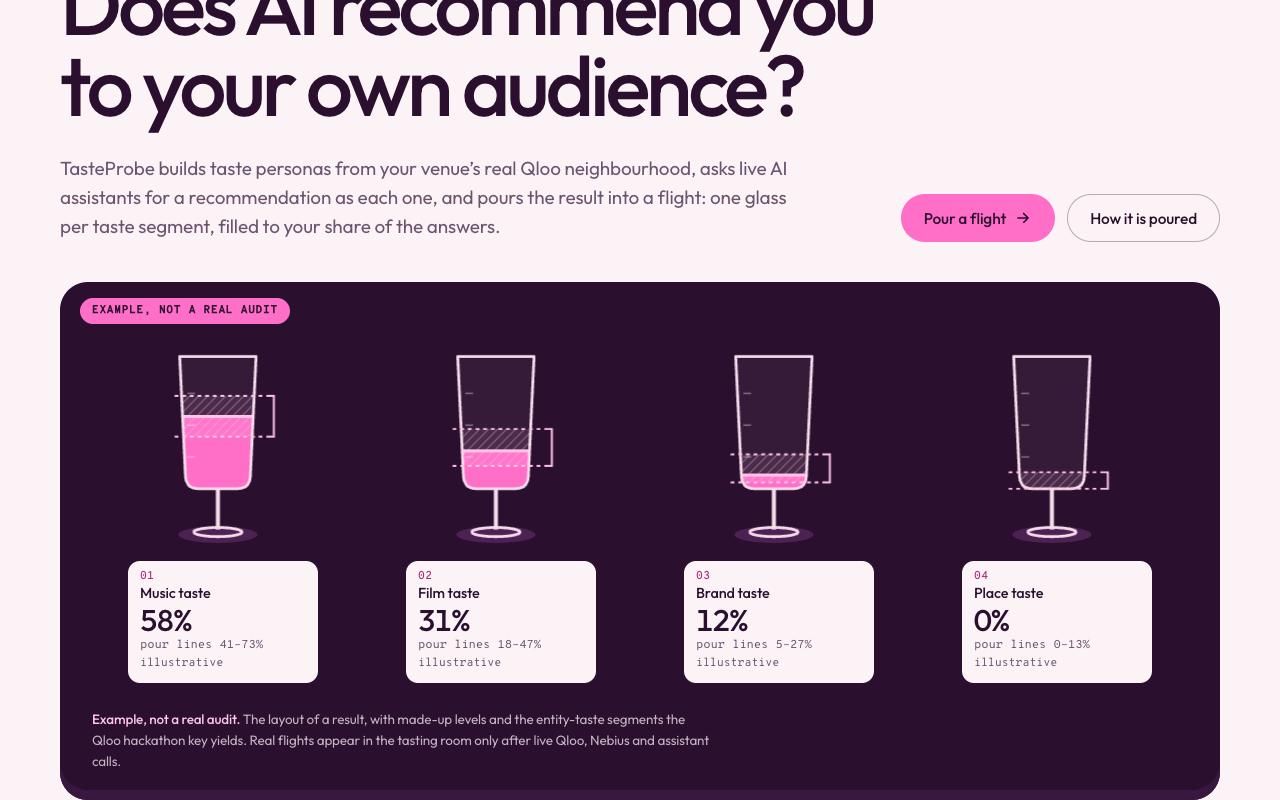
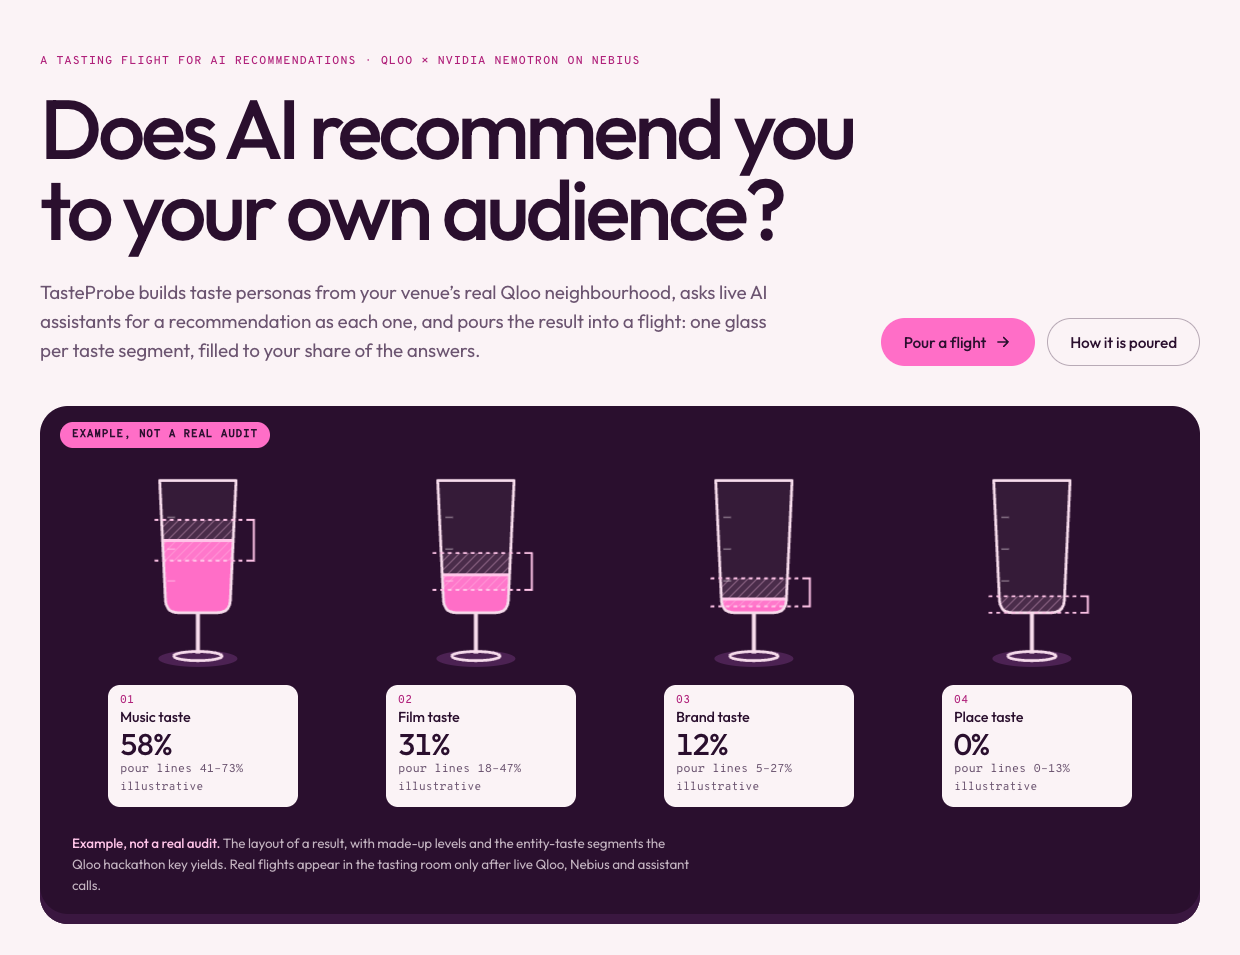
docs(readme): lead with the urn:entity path the hackathon key gets; try-it block; full-headline hero shot
The persona step, the Qloo section, the architecture diagram and the form describe the urn:entity
segments first and urn:tag as the production-key path. A 'Try it in 2 minutes' block sits above the
architecture. The landing E2E shot is clipped to the whole hero (headline and board) on the standalone
build, and the README image is regenerated from it. Tests check the order and the block.

Changed region(s): [[0.0306, 0.0, 0.9806, 1.0], [0.8581, 0.25, 0.95, 0.2812]]

diff --git a/e2e/tests/landing.spec.ts b/e2e/tests/landing.spec.ts
@@ -28,8 +28,18 @@ test.describe("landing: the tasting sheet", () => {
     await expect(hero.getByRole("img", { name: /^Music taste: 58% of answers recommend the venue, 95% interval/ })).toBeVisible();
     // Every surface that shows made-up levels carries the stamp: hero, glass anatomy, re-pour.
     await expect(page.locator(".board-stamp", { hasText: EXAMPLE })).toHaveCount(3);
-    await hero.scrollIntoViewIfNeeded();
-    await page.screenshot({ path: test.info().outputPath("02-example-flight.png"), animations: "disabled" });
+    // The README hero image (docs/screenshots/landing-example-flight.png) is this shot: it must hold
+    // the whole headline and the whole board, not start mid-headline.
+    const section = await page.locator("section.hero").boundingBox();
+    const headline = await page.getByRole("heading", { level: 1 }).boundingBox();
+    const board = await hero.boundingBox();
+    expect(section && headline && board).toBeTruthy();
+    // A side margin (clamped to the page) so the headline does not touch the edge.
+    const pad = Math.min(40, section!.x);
+    const clip = { x: section!.x - pad, y: section!.y, width: section!.width + 2 * pad, height: board!.y + board!.height + 32 - section!.y };
+    expect(headline!.y).toBeGreaterThanOrEqual(clip.y);
+    expect(board!.y + board!.height).toBeLessThanOrEqual(section!.y + section!.height + 1);
+    await page.screenshot({ path: test.info().outputPath("02-example-flight.png"), clip, fullPage: true, animations: "disabled" });
   });
 
   test("wine-list steps: seven numbered courses with their sponsor tags", async ({ page }) => {

diff --git a/README.md b/README.md
@@ -6,20 +6,27 @@
 >
 > Hosted demo: _not deployed yet_ (Qloo requires an externally hosted demo). The production `Dockerfile` and `railway.json` are ready, and the paid routes sit behind a spend guard (run token, persona and agent caps, quotas): one-time setup, then `railway up --detach` ([docs/hosting.md](docs/hosting.md)). Demo video: _not recorded yet; needs keys_ (script in [docs/demo.md](docs/demo.md)).
 
+## Try it in 2 minutes
+
+1. **Hosted demo:** _not deployed yet_ (it needs the Qloo and Nebius keys; the URL goes here once it is live).
+2. **The featured audit:** the hosted demo opens on one real audit pinned with `TASTEPROBE_FEATURED_AUDIT_ID`, so you see a real flight without spending credits. None exists until the first live run.
+3. **The printable report:** any stored audit prints at `/audits/<id>/report`.
+4. **No keys needed:** after `npm ci`, `npm test` runs the unit suite; `npm run build && npm run e2e:stack && npm run test:e2e` runs the browser suite in Chrome ([TESTING.md](TESTING.md)).
+
 | The landing (every glass above the tasting room is stamped as an example) | The tasting room without keys |
 |---|---|
 | ![Landing hero: a flight of four glasses stamped "Example, not a real audit"](docs/screenshots/landing-example-flight.png) | ![Tasting room: Setup required names QLOO_API_KEY, NEBIUS_API_KEY and an assistant key; the flight is empty](docs/screenshots/setup-required.png) |
 
-Both screenshots are from the Playwright E2E run in Chrome at 1280 px (`e2e/tests/landing.spec.ts`, `e2e/tests/room.spec.ts`), with no keys set.
+Both screenshots are from the Playwright E2E run in Chrome at 1280 px (`e2e/tests/landing.spec.ts` on the standalone build, cropped to the hero; `e2e/tests/room.spec.ts`), with no keys set.
 
 ## Architecture
 
 ```mermaid
 flowchart LR
   I[Business + category + city] --> S[Qloo /search<br/>place in that city only]
-  S --> T[Qloo /v2/insights<br/>urn:tag, or urn:entity per type on a 403]
+  S --> T[Qloo /v2/insights<br/>urn:entity per type on the hackathon key<br/>urn:tag with a production key]
   S --> X[Qloo /v2/insights<br/>artist · brand · movie · book · demographics]
-  T --> P[Persona builder<br/>anchor tag + 2 by affinity<br/>>= 8 personas per segment]
+  T --> P[Persona builder<br/>anchor entity or tag + 2 by affinity<br/>>= 8 personas per segment]
   X --> P
   P --> A[Assistants under test<br/>OpenAI + any OpenAI-compatible]
   A --> N[Nemotron on Nebius<br/>entity extraction]
@@ -118,7 +125,7 @@ Without keys, `run_audit` and `run_fix` return a tool error, `Setup required: QL
 ## How the numbers are made
 
 1. **Venue.** Qloo `/search` must return a place whose address or geocode names the requested city. If none does, the audit stops and lists what Qloo found elsewhere. That place must also match the venue's name: if the in-city listings are all other venues, the audit stops and lists them. It never audits a namesake in another city or a different venue in the same one.
-2. **Personas.** Qloo `/v2/insights` (`filter.type=urn:tag`, `signal.interests.entities`, `signal.location.query`) returns up to 50 taste tags with affinity, and tags are grouped into segments by subtype. If the city returns fewer than 6 tags, the venue's global neighbourhood (the same call without `signal.location.query`) is added; every tag keeps its scope (`city` or `global`) and the audit records `tagScope`, which the dashboard and both reports show as "N of M tags come from Qloo's global neighbourhood". **The hackathon host may refuse `urn:tag`:** the Qloo Agentic Hackathon Developer Guide lists only `urn:entity:*` types as supported and says other types answer 403. On a 403 for `urn:tag`, the personas are built from `urn:entity` affinities instead: one `/v2/insights` call per type (`artist`, `brand`, `movie`, `book`, `tv_show`, `podcast`, and `place` with the venue itself removed), all city-scoped on the venue, and each type becomes one taste segment ("Music taste", "Film taste", ...). Which path ran is stored on the audit as `personaSource` (`urn:tag` or `urn:entity`) and shown in the dashboard, the printable report and the CLI report. `npm run audit:live` checks it before spending anything: its preflight makes one 1-tag `urn:tag` call on the resolved place and prints whether the key gets `urn:tag`. Either way, **every segment gets at least 8 personas**: N personas allow at most floor(N/8) segments (max 6). Each persona anchors on one tag or entity, taken in affinity order, and adds two from other segments, sampled by affinity with seed 7. With `urn:tag` personas, a persona also names one or two artists, brands, films or books with affinity to the venue where Qloo returns them.
+2. **Personas.** **On the hackathon key (the path judges will see):** the Qloo Agentic Hackathon Developer Guide lists only `urn:entity:*` types as supported and says other types answer 403, so the personas come from `urn:entity` affinities: one `/v2/insights` call per type (`filter.type=urn:entity:artist`, `brand`, `movie`, `book`, `tv_show`, `podcast`, and `place` with the venue itself removed; `signal.interests.entities` and `signal.location.query`), all city-scoped on the venue, and each type becomes one taste segment ("Music taste", "Film taste", ...). **With a production key** that serves `urn:tag`, `/v2/insights` (`filter.type=urn:tag`) returns up to 50 taste tags with affinity, grouped into segments by subtype; if the city returns fewer than 6 tags, the venue's global neighbourhood (the same call without `signal.location.query`) is added, every tag keeps its scope (`city` or `global`) and the audit records `tagScope` ("N of M tags come from Qloo's global neighbourhood"). The code tries `urn:tag` first and switches to the entity path on its 403. Which path ran is stored on the audit as `personaSource` (`urn:entity` or `urn:tag`) and shown in the dashboard, the printable report and the CLI report; no live run has happened yet, so which one the hackathon key actually gets is still to be recorded. `npm run audit:live` checks it before spending anything: its preflight makes one 1-tag `urn:tag` call on the resolved place and prints whether the key gets `urn:tag`. Either way, **every segment gets at least 8 personas**: N personas allow at most floor(N/8) segments (max 6). Each persona anchors on one tag or entity, taken in affinity order, and adds two from other segments, sampled by affinity with seed 7. With `urn:tag` personas, a persona also names one or two artists, brands, films or books with affinity to the venue where Qloo returns them.
 3. **Prompts.** The **baseline** prompt holds only the persona's tastes, the category and the city. It never names the venue.
 4. **Extraction.** Nemotron returns the venues each answer recommends as JSON. Output that is truncated at `max_tokens`, has no JSON or has no `entities` array is counted as **unparseable**. It is never silently turned into "not recommended". A deterministic numbered-list parser reads the same answer, and the audit reports how often the two disagree, per assistant.
 5. **Matching the venue.** An extracted name counts as the venue after normalising case, Latin accents, possessives, "&" and punctuation in any script (so `すきやばし次郎` matches itself). A brand with two or more distinctive words matches inside a longer name ("The Bombay Canteen, Lower Parel"). A brand with one distinctive word ("The Table", "Trishna") must be the whole name, give or take articles, a branch note after a comma, parenthesis or dash, and the city's name, so "Table Talk" and "Kitchen Table" are counted as rivals, not as the venue. Names are not yet re-resolved in Qloo `/search` to confirm an ambiguous match.
@@ -158,8 +165,9 @@ Every model call that TasteProbe itself makes goes to an NVIDIA open model on Ne
 ## Qloo
 
 - `/search` (`types=urn:entity:place`) resolves the venue in its own city and checks the rivals assistants recommend. A 404 is Qloo's documented "No results" and stops the audit with a readable message.
-- `/v2/insights` with `filter.type=urn:tag`, `signal.interests.entities` and `signal.location.query` builds the personas (Taste Analysis). If the key answers 403 for `urn:tag` (the hackathon guide lists it as unsupported), the personas come from `urn:entity:artist|brand|movie|book|tv_show|podcast|place` affinities instead, and the audit records `personaSource: "urn:entity"`.
-- `/v2/insights` with `filter.type=urn:entity:artist|brand|movie|book` adds cross-domain taste, and `filter.type=urn:demographics` adds the audience lean.
+- `/v2/insights` with `filter.type=urn:entity:artist|brand|movie|book|tv_show|podcast|place`, `signal.interests.entities` and `signal.location.query` builds the personas on the hackathon key, one taste segment per entity type, and the audit records `personaSource: "urn:entity"`. The hackathon guide lists only `urn:entity:*` types; `urn:tag` is tried first and answers 403 there.
+- With a production key that serves it, `/v2/insights` with `filter.type=urn:tag` builds the personas from taste tags instead (Taste Analysis, `personaSource: "urn:tag"`), and `urn:entity:artist|brand|movie|book` adds cross-domain taste to them.
+- `filter.type=urn:demographics` adds the audience lean (recorded as an error and skipped if the key refuses it).
 - The agent reads Qloo live through its `qloo_insights` tool. With no arguments it returns the segment's own persona signals. With `filter_type` (an `urn:entity:*` type; `urn:tag` only off the hackathon host), `entity` (`venue` or the Qloo id of a rival the audit verified with `/search`) and `location`, it returns that entity's taste neighbourhood, so the agent can compare the venue with a rival that wins the segment and aim the copy at the difference. Each distinct call is made once per run, logged in the notebook, and its raw payload kept in the server-side trace.
 - The MCP server exposes the whole Qloo-grounded audit to other agents, plus `qloo_taste_profile` for direct Qloo reads.
 - Raw Qloo payloads are cached server-side under `.data/` (git-ignored). Qloo's FAQ forbids putting Qloo response data in a public repo.

diff --git a/HACKATHON_SUBMISSION_FORM.md b/HACKATHON_SUBMISSION_FORM.md
@@ -54,17 +54,17 @@ TasteProbe
 Do AI assistants recommend you to your own audience? A placebo-controlled audit grounded in Qloo taste data.
 
 ## What it does
-- **Personas from Qloo.** TasteProbe resolves a venue in Qloo, in its own city only. Qloo's taste tags (or, where the key refuses `urn:tag`, its artist, brand, film, book, TV, podcast and place affinities), cross-domain and demographic signals become personas, with at least 8 per taste segment. Each audit records which source it used.
+- **Personas from Qloo.** TasteProbe resolves a venue in Qloo, in its own city only. On the hackathon key, Qloo's artist, brand, film, book, TV, podcast and place affinities for the venue become personas, one taste segment per entity type, with at least 8 per segment (with a production key that serves `urn:tag`, taste tags plus cross-domain signals do). Each audit records which source it used.
 - **Live audit.** Each persona asks live AI assistants for recommendations. The prompt names neither the venue nor anything else that would identify it.
 - **Extraction.** NVIDIA Nemotron on Nebius Token Factory extracts what each answer recommends. A deterministic list parser cross-checks every answer.
 - **Share of voice.** Reported per taste segment and per assistant, with 95% Wilson intervals widened for persona clustering. Dropped and unparseable answers are counted, not hidden.
 - **Fix.** Fix copy is tested against a placebo on the same personas, with the baseline re-run in the same window. The reported lift is fix minus placebo, so it measures the copy and not mere exposure to the name.
-- **Agent loop.** A Nemotron tool-calling loop (Qloo insights for the venue or a rival, propose copy, probe vs placebo, read stats) iterates under a budget. Its intervals only screen: a copy that clears zero gets one confirmation probe on personas the search never used, and only that can declare a win. The code enforces this.
+- **Agent loop.** A Nemotron tool-calling loop (Qloo insights for the venue or a rival, propose copy, probe vs placebo, read stats) iterates under a budget. Its intervals only screen: a copy that clears zero gets one confirmation probe (held-out personas from 16 per segment; below that, a fresh re-ask of the same personas, reported as re-confirmed), and only that can declare a win. The code enforces this.
 - **For other agents and for print.** An MCP server exposes `run_audit`, `run_fix`, `get_report` and `qloo_taste_profile`, and `/audits/<id>/report` is a printable report of any stored audit.
 
 ## How we built it
 - Next.js 15 app with streaming NDJSON APIs, a CLI (`npm run audit:live`) and a stdio MCP server (`npm run mcp`), all on the same pipeline.
-- Qloo `/search` and `/v2/insights` with `urn:entity:*` types on the hackathon host (`urn:tag` and `urn:demographics` are tried, and a 403 switches the personas to entity segments or is recorded on the audit). No live call has run yet; update this after the first one. Nebius Token Factory through the OpenAI-compatible API: chat completions with `tools` for the agent, JSON extraction for every answer, and `/v1/models` to check the key's catalog. Assistants under test go through any OpenAI-compatible endpoint.
+- Qloo `/search` and `/v2/insights` with `urn:entity:*` types on the hackathon host, one taste segment per type (`urn:tag` is tried first for production keys, and its 403 switches the personas to entity segments; a refused `urn:demographics` is recorded on the audit). No live call has run yet; after the first one, state which `personaSource` the featured audit used. Nebius Token Factory through the OpenAI-compatible API: chat completions with `tools` for the agent, JSON extraction for every answer, and `/v1/models` to check the key's catalog. Assistants under test go through any OpenAI-compatible endpoint.
 - Statistics in plain JS with seeded tests:
   - Wilson interval on a Kish effective sample size;
   - paired persona bootstrap for lift;
